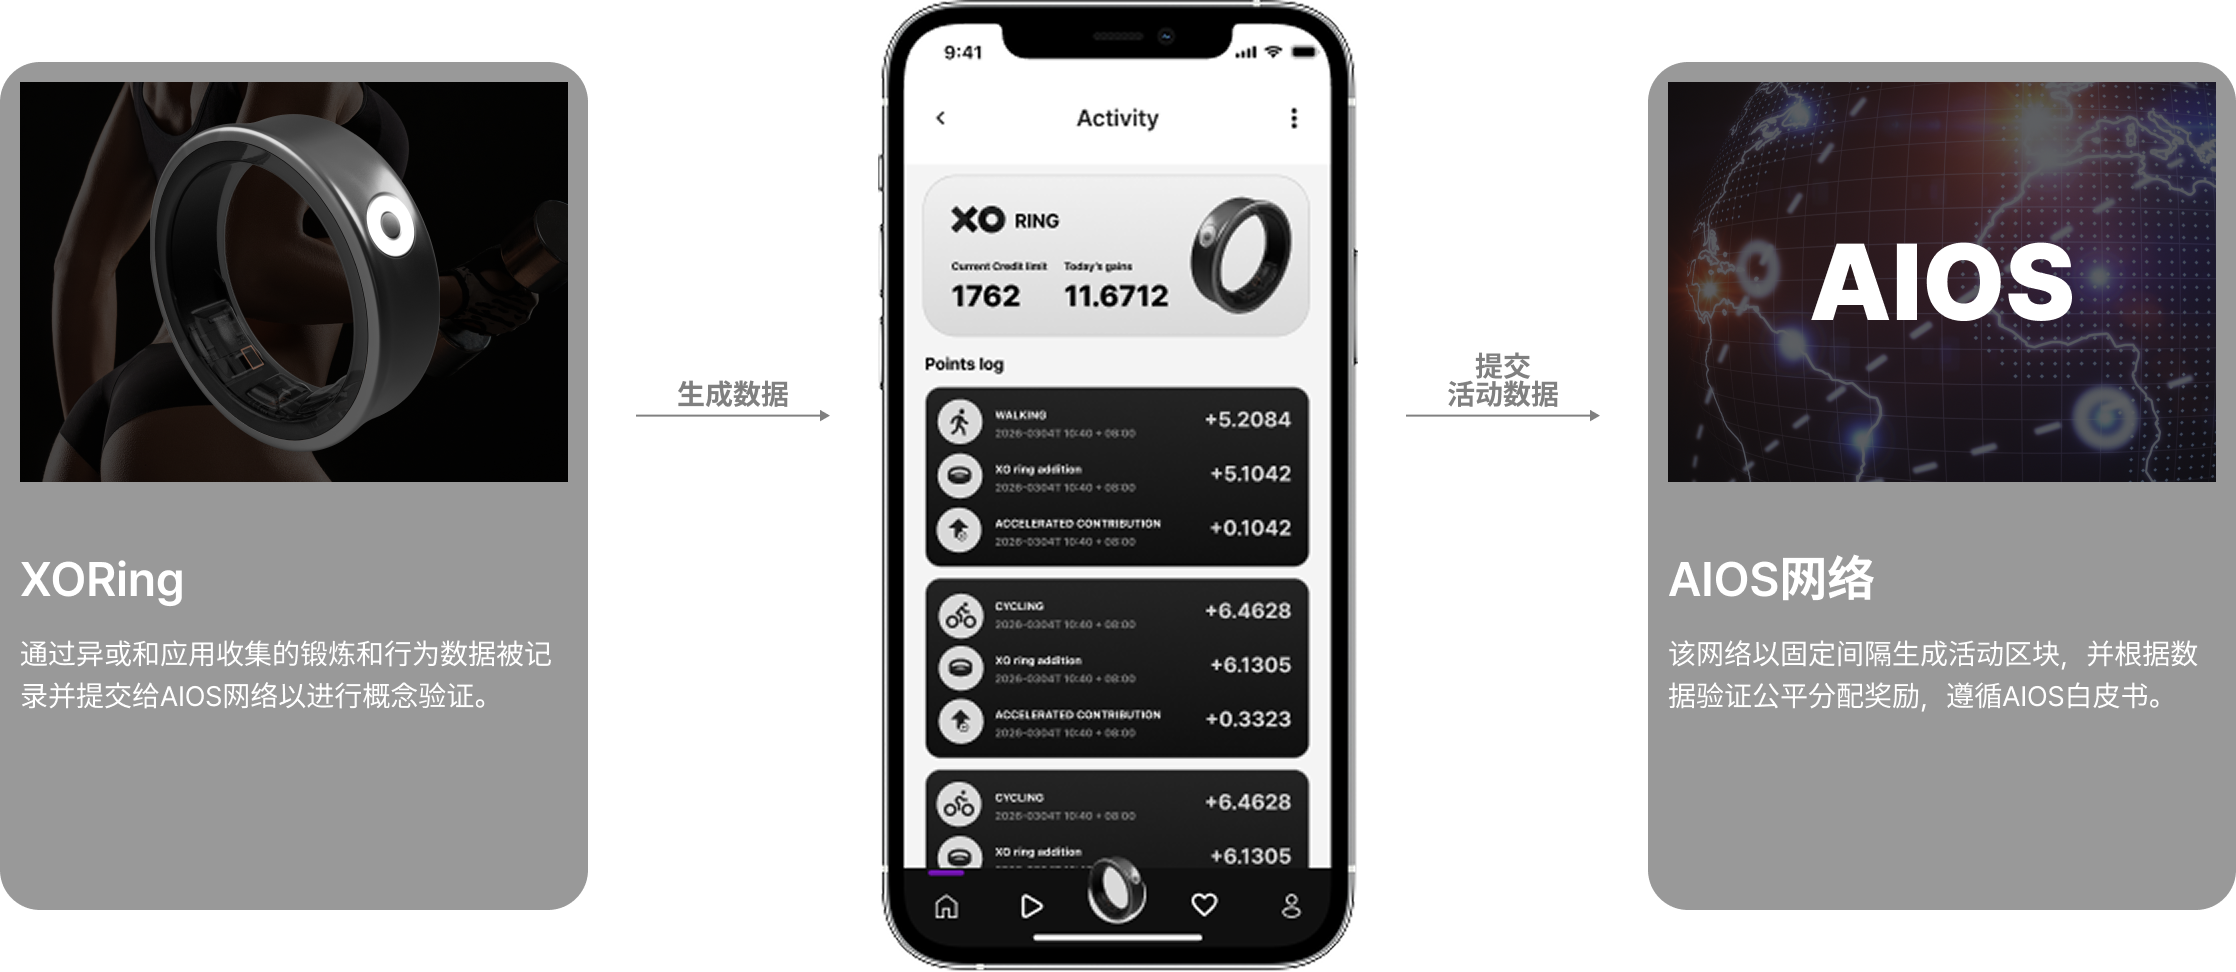
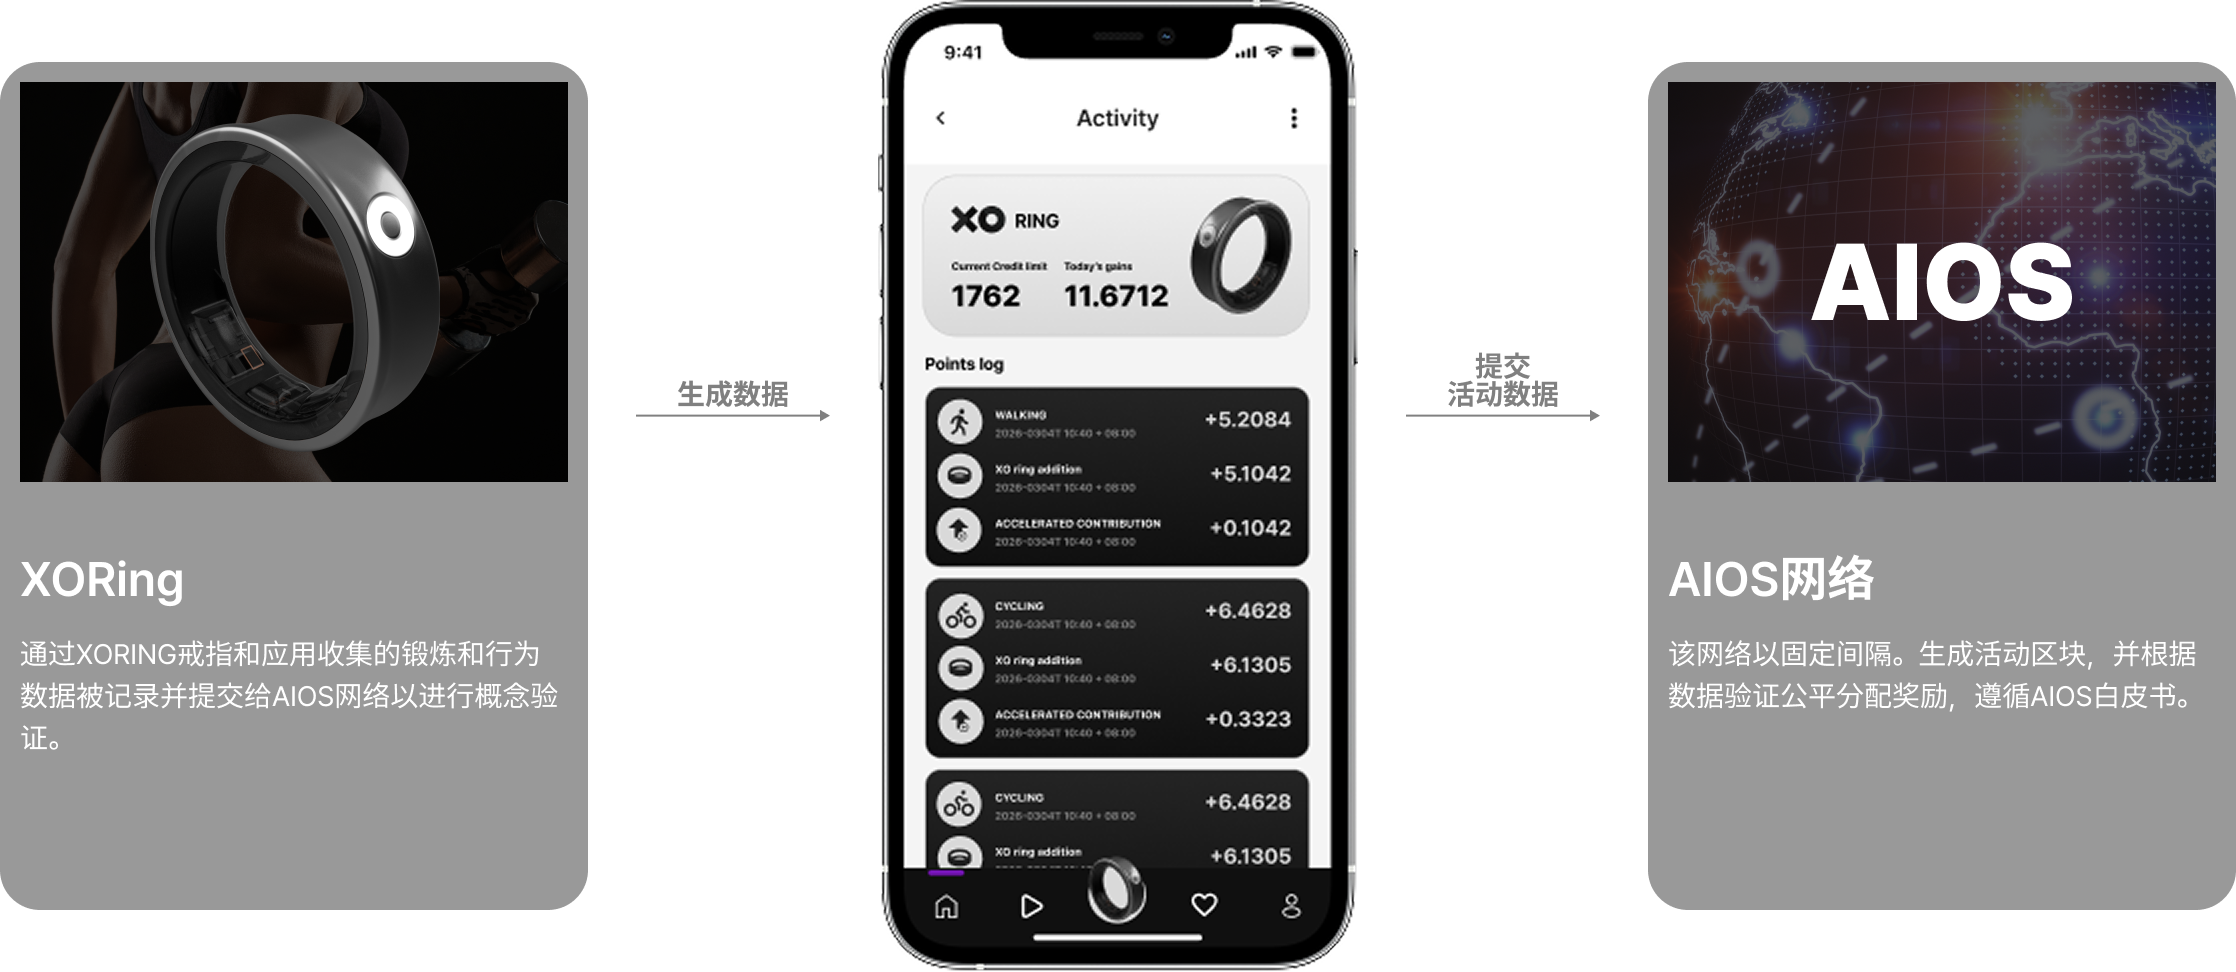
fix: 중국어 번역 교정안 반영

Changed region(s): [[0.0, 0.6481, 0.2469, 0.7716], [0.7406, 0.6481, 0.9875, 0.7407]]

diff --git a/src/lib/i18n.ts b/src/lib/i18n.ts
@@ -216,11 +216,11 @@ const englishMessages = {
   pioneer: {
     headline: "Frontier Edition",
     paragraphs: [
-      "We are inviting the first 000 pioneers to experience XO Ring before anyone else.",
+      "We are inviting the first 10,000 pioneers to experience XO Ring before anyone else.",
       "A wearable that turns your actions into real value.",
       "Not for everyone.\nNo mass production.",
     ],
-    spots: "Limited — 000 Spots",
+    spots: "Limited — 10,000 Spots",
   },
   policy: {
     title: "Policy & Community Guidelines",
@@ -330,8 +330,8 @@ const chineseMessages = {
     skipToContent: "跳转到主要内容",
     comingSoon: "即将上线, 敬请期待",
     storeButtons: [
-      { key: "apple", eyebrow: "下载自", label: "App Store" },
-      { key: "google", eyebrow: "立即获取", label: "Google Play" },
+      { key: "apple", eyebrow: "立即获取", label: "iOS" },
+      { key: "android", eyebrow: "立即获取", label: "安卓" },
     ],
   },
   header: {
@@ -348,24 +348,23 @@ const chineseMessages = {
     languageSwitchLabel: "查看英文网站",
   },
   hero: {
-    headline: ["超越自我, ", "连接彼此"],
+    headline: ["超越自我", "连接彼此"],
     overlay: [
-      "不只是一枚",
-      "记录健康的智能戒指",
-      "你每一次呼吸与行动, ",
-      "都让彼此连接得更深",
+      "不只是一枚记录健康的智能戒指",
+      "你每一次呼吸、行动",
+      "都让彼此连接更深",
       "",
-      "认识 XORing, ",
+      "认识XORing",
       "全球首款真正连接真人社交的智能戒指",
     ],
   },
   beyondScreen: {
     headline: "走出屏幕",
     paragraphs: [
-      ["当我们每天长时间注视屏幕, ", "社交媒体上的形象真的代表你吗？"],
+      ["当你每天长时间注视屏幕", "社交媒体上的形象真的代表你吗？"],
       [
         "XORing 为此而生, ",
-        "帮助你找回那个常被无数数字身份",
+        "帮助你找回那个已被无数数字身份",
         "遮蔽的真实自我",
       ],
       [
@@ -376,7 +375,7 @@ const chineseMessages = {
     ],
   },
   twoModes: {
-    headline: ["一枚戒指, ", "两种模式"],
+    headline: ["一枚戒指", "两种模式"],
     social: ["连接", "整个世界"],
     private: ["专注", "真实自我"],
     switchLabel: "旋转切换",
@@ -384,13 +383,13 @@ const chineseMessages = {
   socialMode: {
     badge: "社交模式",
     ringAlt: "XORing 社交模式",
-    headline: ["互联世界, ", "尽在指尖"],
+    headline: ["互联世界", "尽在指尖"],
     subtext: "真正的社交网络不在屏幕里, 而在共同的节奏与呼吸之间",
     cards: [
       {
         title: "伙伴匹配",
         description:
-          "XO 会实时为你匹配生活方式和运动习惯相近的用户对方就在附近时, 轻碰戒指即可互动；相隔较远时, 也能通过应用连接并一起运动",
+          "XO 会实时为你匹配生活方式和运动习惯相近的用户。对方就在附近时, 轻碰戒指即可互动；相隔较远时, 也能通过应用连接并一起运动",
       },
       {
         title: "同频社群",
@@ -400,7 +399,7 @@ const chineseMessages = {
       {
         title: "情侣模式",
         description:
-          "即使生活忙碌, 也能安心了解彼此的状态这不是监控, 而是在完全尊重双方意愿的前提下, 温和地分享日常",
+          "即使生活忙碌, 也能安心了解彼此的状态。这不是监控, 而是在完全尊重双方意愿的前提下, 温和地分享日常",
       },
       {
         title: "位置共享",
@@ -418,22 +417,22 @@ const chineseMessages = {
       {
         title: "数据保护",
         description:
-          "你的个人健康数据始终属于你先进的加密技术确保未经明确同意, 生物特征与活动数据绝不会被共享",
+          "你的个人健康数据始终属于你。先进的加密技术确保未经明确同意, 生物特征与活动数据绝不会被共享",
       },
       {
         title: "独立训练",
         description:
-          "深度专注模式会静音社交通知记录每一次动作、每一次心跳和每一次呼吸, 只留下你与目标",
+          "深度专注模式会静音社交通知。记录每一次动作、每一次心跳和每一次呼吸, 只留下你与目标",
       },
       {
         title: "专注模式",
         description:
-          "屏蔽干扰, 进入深度专注状态XO Ring 会关注你的认知负荷, 并在注意力偏移时温和提醒",
+          "屏蔽干扰, 进入深度专注状态。XO Ring 会关注你的认知负荷, 并在注意力偏移时温和提醒",
       },
       {
         title: "钥匙与支付",
         description:
-          "将戒指作为安全钥匙和支付设备轻触即可解锁或支付, 顺畅、安全且始终触手可及",
+          "将戒指作为安全钥匙和支付设备。轻触即可解锁或支付, 顺畅、安全且始终触手可及",
       },
     ],
   },
@@ -469,7 +468,7 @@ const chineseMessages = {
   },
   application: {
     eyebrow: "应用",
-    headline: ["所有体验, ", "尽在掌中"],
+    headline: ["所有体验", "尽在掌中"],
     description: [
       "你的所有 XORing 数据都会无缝同步到应用",
       "即使没有戒指, 也可以使用应用",
@@ -478,7 +477,7 @@ const chineseMessages = {
     imageAlt: "移动应用界面",
   },
   poc: {
-    eyebrow: "AIOS · PoC",
+    eyebrow: "运动能量",
     headline: "汗水的价值",
     intro:
       "步行与奔跑流下的汗水会转化为真实价值, 让你的时间与坚持得到公平回报",
@@ -488,7 +487,7 @@ const chineseMessages = {
     cards: [
       {
         title: "从 PoW 到 PoC",
-        body: "计算机消耗能源挖矿的时代正在过去你的脚步与汗水将成为新的真实价值",
+        body: "计算机消耗能源挖矿的时代正在过去。你的脚步与汗水将成为新的真实价值",
       },
       {
         title: "行动即价值",
@@ -507,18 +506,18 @@ const chineseMessages = {
     headline: ["Web3.0 时代的", "全新身份"],
     paragraphs: [
       "它不只是一台智能设备",
-      "XORing 是你的全新数字身份, 证明你是庞大 AI 生态系统中的核心成员",
-      "记录行动, 让日常习惯转化为非凡价值\n从你的指尖开始体验",
+      "XORing是你的全新数字身份\n证明你是庞大AI生态系统中的核心成员",
+      "记录行动，让日常习惯转化为非凡价值\n从你的指尖开始体验",
     ],
   },
   pioneer: {
     headline: "先锋限量版",
     paragraphs: [
-      "我们正在邀请首批 000 位先锋, 抢先体验 XO Ring",
+      "我们正在邀请首批 10,000 位先锋, 抢先体验 XO Ring",
       "一款让你的行动转化为真实价值的可穿戴设备",
       "并非人人可得\n不做大规模量产",
     ],
-    spots: "限量 000 个名额",
+    spots: "限量 10,000 个名额",
   },
   policy: {
     title: "政策与社区准则",

diff --git a/src/components/shared/StoreButtons.tsx b/src/components/shared/StoreButtons.tsx
@@ -28,9 +28,13 @@ export default function StoreButtons({ className, variant = 'dark', googleFirst 
 		{
 			key: 'google',
 			href: STORE_LINKS.googlePlay,
-				eyebrow: copy.storeButtons[1].eyebrow,
-				label: copy.storeButtons[1].label,
-			icon: (
+			eyebrow: copy.storeButtons[1].eyebrow,
+			label: copy.storeButtons[1].label,
+			icon: copy.storeButtons[1].key === 'android' ? (
+				<svg viewBox="0 0 24 24" className="w-5 h-5 fill-current" aria-hidden="true">
+					<path d="M7.15 8.25h9.7l-.82-1.42 1.42-.82-.7-1.21-1.48.85A6.38 6.38 0 0 0 12 4.75c-1.19 0-2.31.33-3.27.9L7.25 4.8l-.7 1.21 1.42.82-.82 1.42ZM9.5 7.1a.75.75 0 1 1 0-1.5.75.75 0 0 1 0 1.5Zm5 0a.75.75 0 1 1 0-1.5.75.75 0 0 1 0 1.5ZM6.5 9.5h11v8.25c0 .97-.78 1.75-1.75 1.75H15v2a1 1 0 1 1-2 0v-2h-2v2a1 1 0 1 1-2 0v-2h-.75c-.97 0-1.75-.78-1.75-1.75V9.5Zm-2 1a1 1 0 0 1 1 1v5a1 1 0 1 1-2 0v-5a1 1 0 0 1 1-1Zm15 0a1 1 0 0 1 1 1v5a1 1 0 1 1-2 0v-5a1 1 0 0 1 1-1Z" />
+				</svg>
+			) : (
 				<svg viewBox="0 0 24 24" className="w-5 h-5 fill-current" aria-hidden="true">
 					<path d="M3.18 23.76c.33.18.7.22 1.06.1l12.74-7.36-2.76-2.76-11.04 9.94v.08zm-1.46-1.42c-.09-.2-.13-.43-.13-.68V2.34c0-.25.04-.48.13-.68L13.5 12 1.72 22.34zM20.43 10.17l-2.62-1.52-3.08 3.07 3.08 3.08 2.65-1.53c.76-.44.76-1.66-.03-2.1zM4.24.14C3.88.02 3.51.06 3.18.24l11.04 9.93 2.76-2.76L4.24.14z" />
 				</svg>
